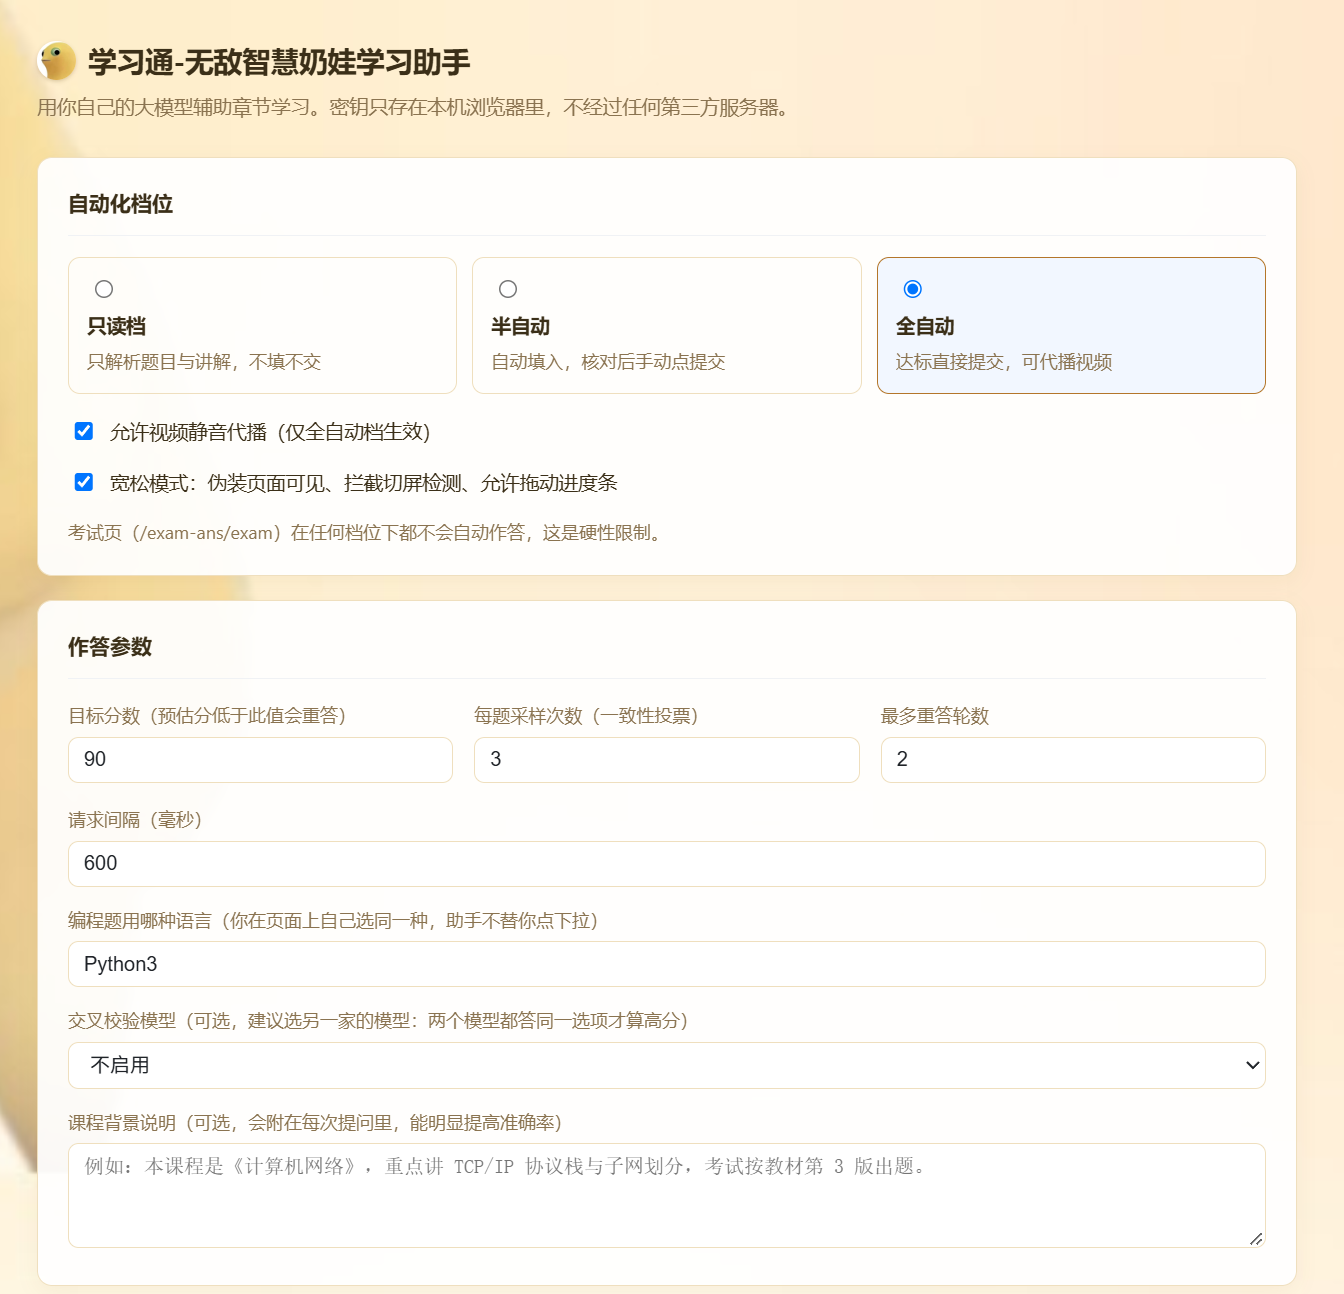
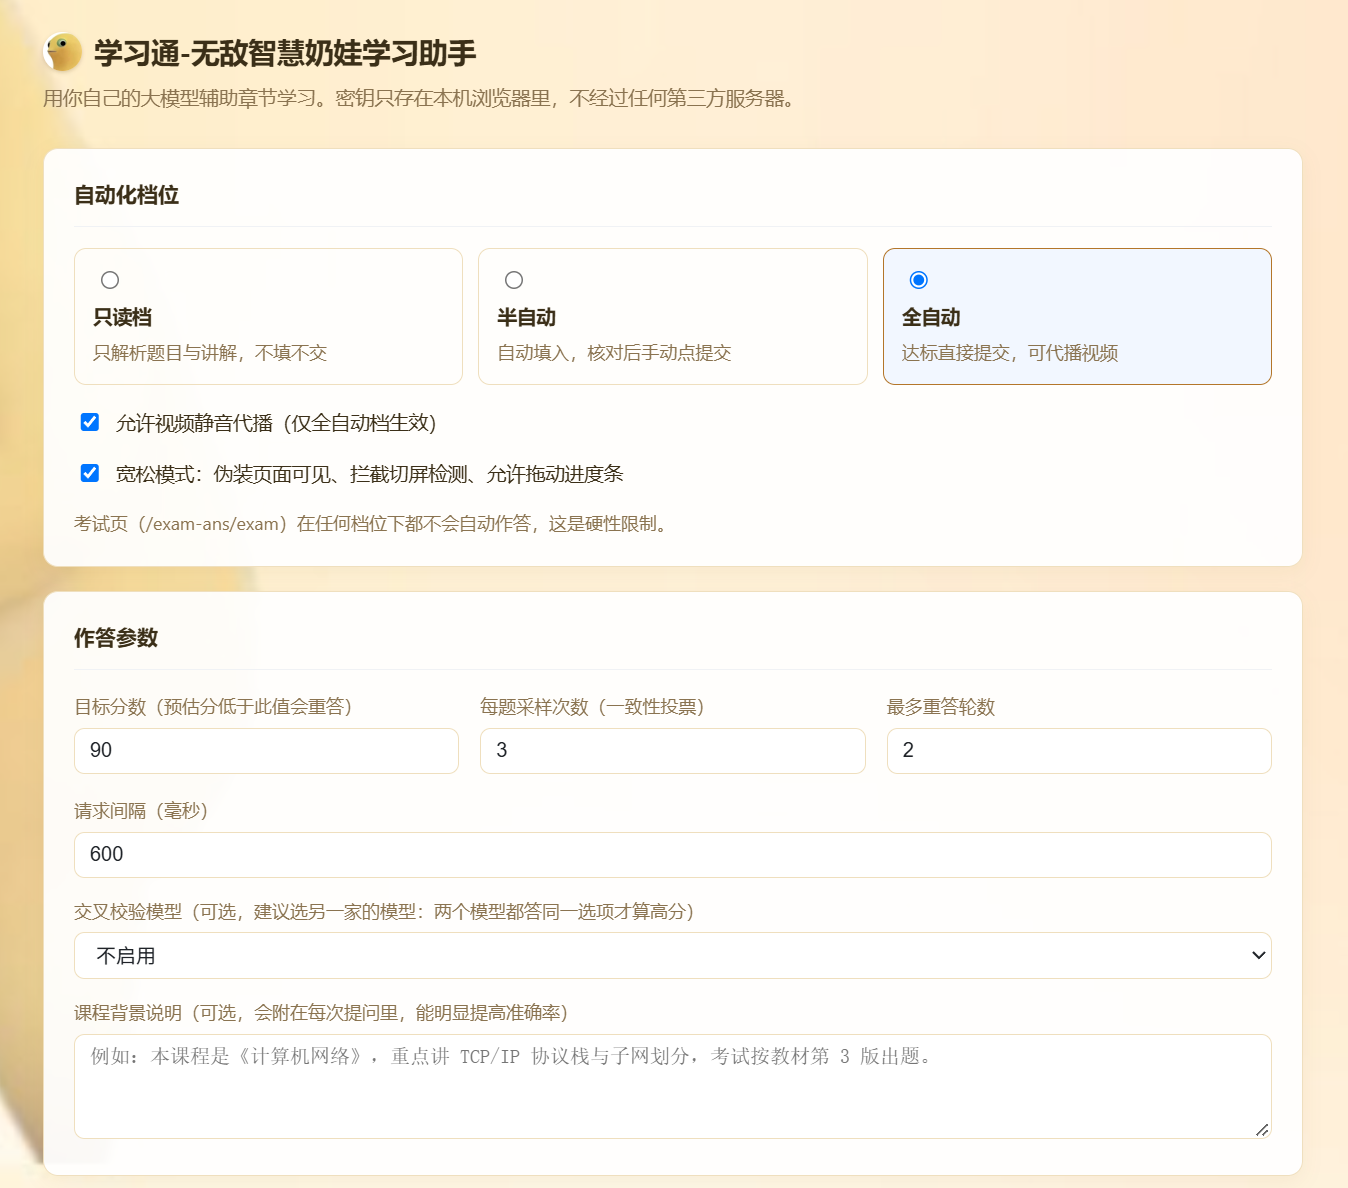
docs: 设置页截图换成 0.4.7 版本（已无兜底语言项）

diff --git a/README.md b/README.md
@@ -116,7 +116,7 @@
   <img src="docs/screenshots/03-options-top.png" width="760" alt="设置页：自动化档位与作答参数">
 </p>
 
-<p align="center"><sub>设置页上半部分：三个档位单选、代播与宽松两个开关、以及作答参数。</sub></p>
+<p align="center"><sub>设置页上半部分：三个档位单选、代播与宽松两个开关，以及作答参数（含交叉校验模型与课程背景说明）。</sub></p>
 
 
 ---
